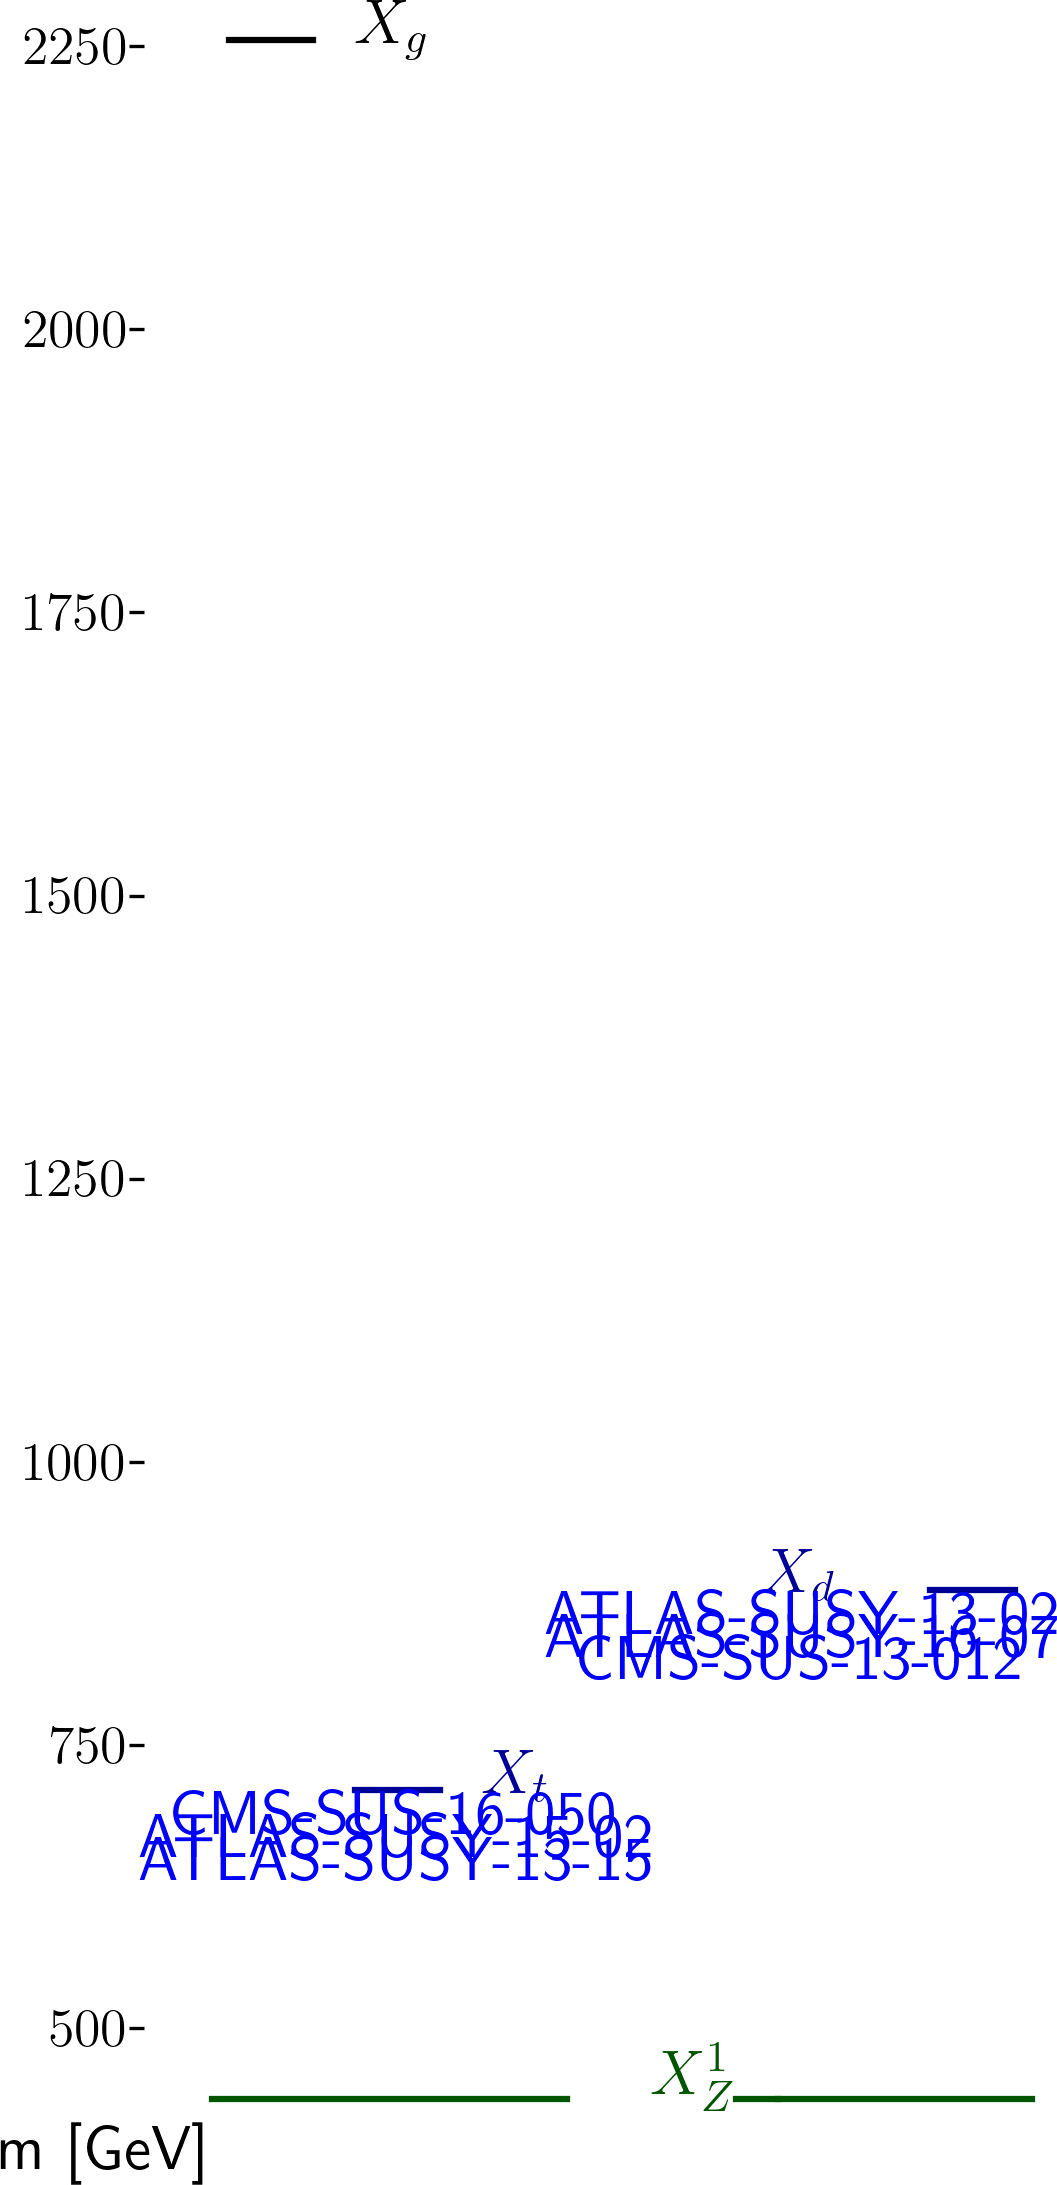
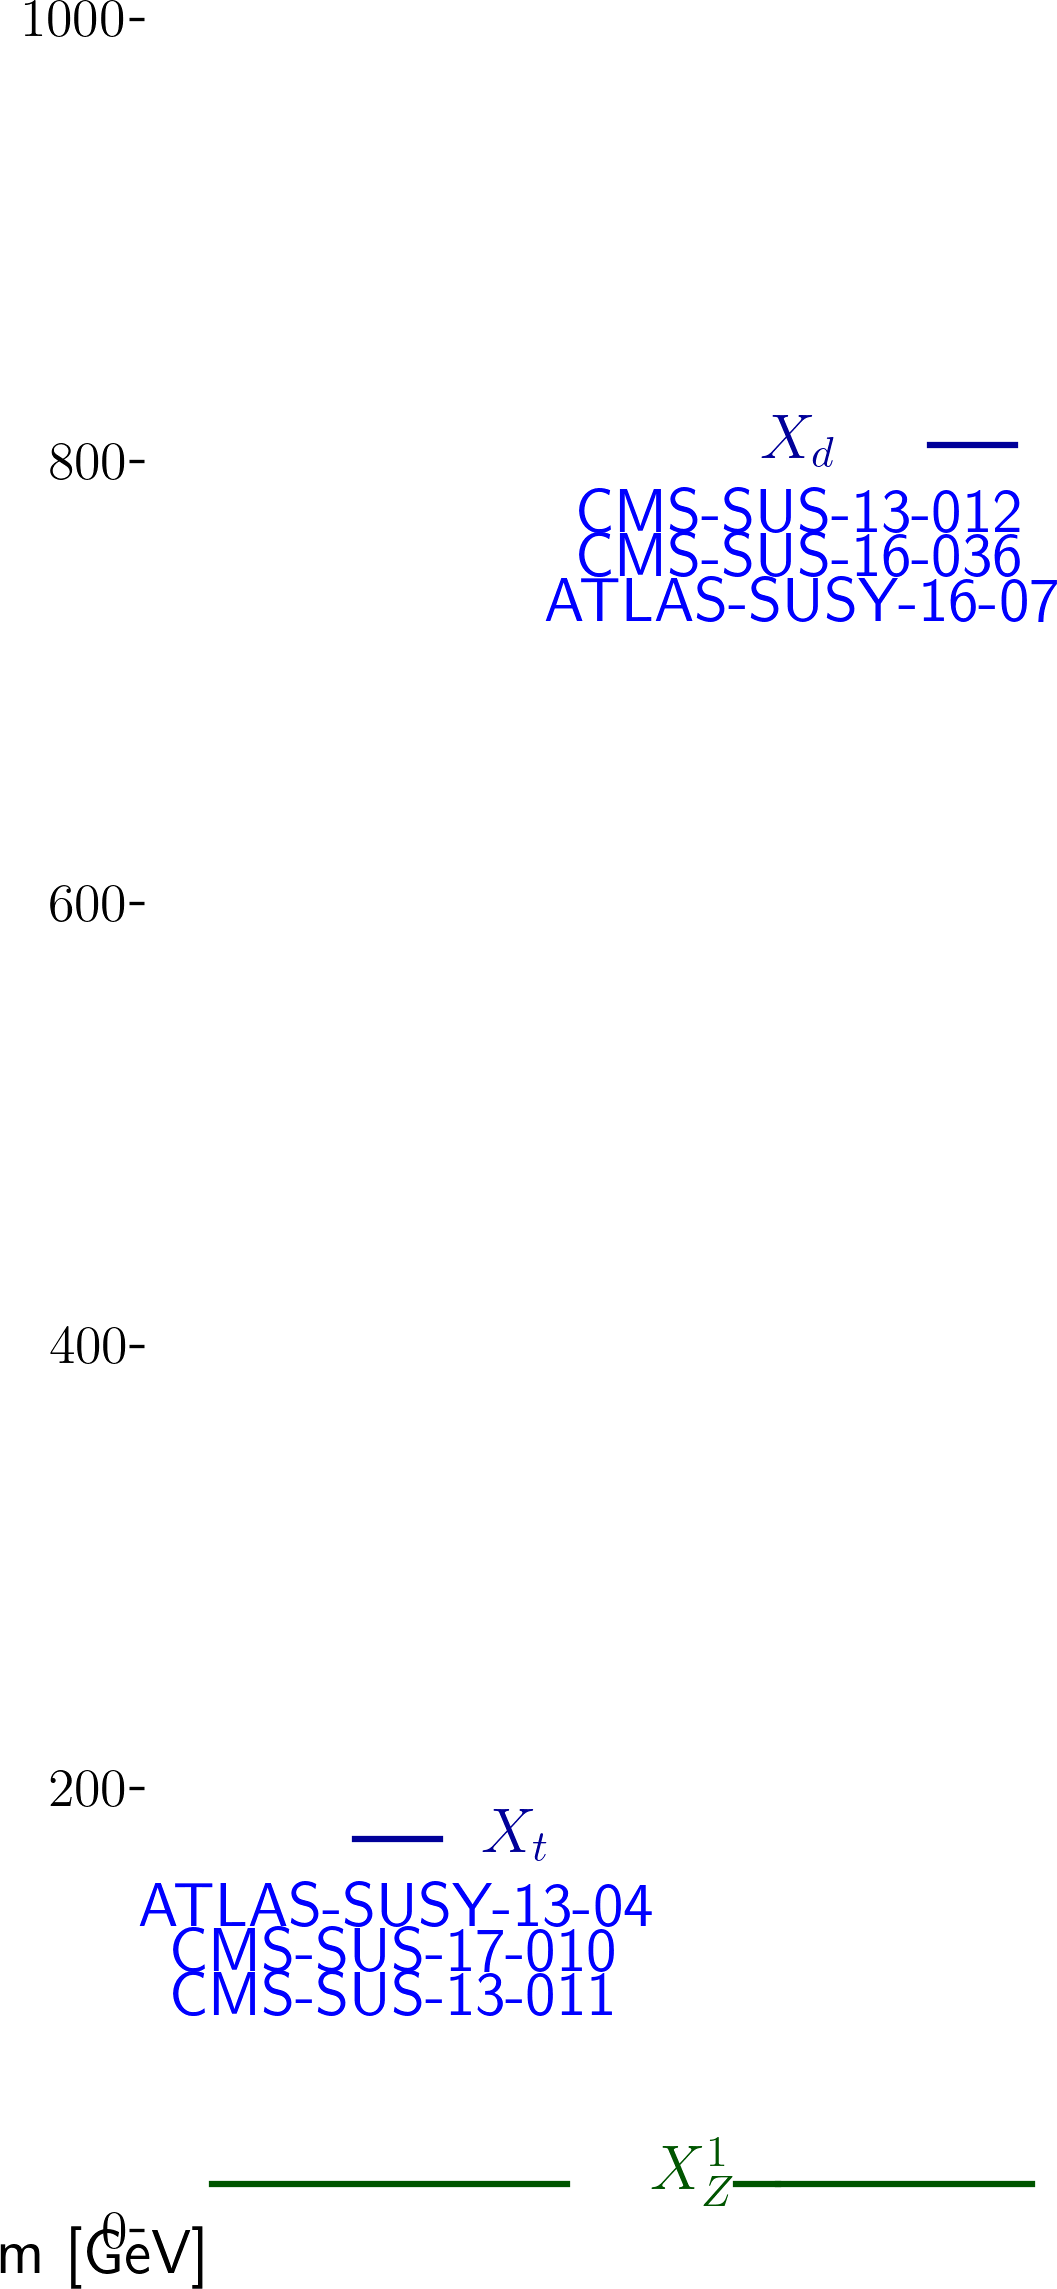
automated update by plotHiscore.py

diff --git a/protomodels/latest/index.html b/protomodels/latest/index.html
@@ -1,30 +1,28 @@
 <html>
 <body>
 <center>
-<table><td><h1>Current best protomodel: K=6.20</h1><td><img height=60px src=https://smodels.github.io/pics/banner.png></table>
+<table><td><h1>Current best protomodel: K=6.92</h1><td><img height=60px src=https://smodels.github.io/pics/banner.png></table>
 </center>
-<b><a href=./hiscore.slha>ProtoModel</a> <a href=./pmodel.py>(dict)</a> produced with <a href=https://smodels.github.io/docs/Validation124>database v1.2.4</a>, combination strategy <a href=./matrix_aggressive.png>aggressive</a> in walker 29 step 30.</b> K plots for: <a href=./M1000022.png?7711667>X<sub>Z</sub><sup>1</sup></a>, <a href=./M1000004.png?7711667>X<sub>c</sub></a>, <a href=./M1000006.png?7711667>X<sub>t</sub></a>. HPD plots for: <a href=./llhd1000004.png?7711667>X<sub>c</sub></a>, <a href=./llhd1000006.png?7711667>X<sub>t</sub></a>. SSM plots for: <a href=./ssm_1000021_1000021.png?7711667>(X<sub>g</sub>,X<sub>g</sub>)</a>, <a href=./ssm_-1000006_1000006.png?7711667>(x&#772;<sub>t</sub>,X<sub>t</sub>)</a><br>
+<b><a href=./hiscore.slha>ProtoModel</a> <a href=./pmodel.py>(dict)</a> produced with <a href=https://smodels.github.io/docs/Validation124>database v1.2.4</a>, combination strategy <a href=./matrix_aggressive.png>aggressive</a> in walker 21 step 811.</b> K plots for: <a href=./M1000022.png?7784293>X<sub>Z</sub><sup>1</sup></a>, <a href=./M1000006.png?7784293>X<sub>t</sub></a>. HPD plots for: <a href=./llhd1000006.png?7784293>X<sub>t</sub></a>. SSM plots for: <a href=./ssm_-1000006_1000006.png?7784293>(x&#772;<sub>t</sub>,X<sub>t</sub>)</a><br>
 <table width=80%>
 <tr><td>
-<br><b>33 predictions available. Highest r values are:</b><br><ul>
-<li><a href=http://cms-results.web.cern.ch/cms-results/public-results/publications/SUS-19-006/index.html>CMS-SUS-19-006</a>:T2tt r=1.30, r<sub>exp</sub>=0.83<br>
-<li><a href=http://cms-results.web.cern.ch/cms-results/public-results/publications/SUS-16-033/index.html>CMS-SUS-16-033</a>:T2 r=1.17, r<sub>exp</sub>=0.79<br>
-<li><a href=http://cms-results.web.cern.ch/cms-results/public-results/publications/SUS-19-006/index.html>CMS-SUS-19-006</a>:T2 r=1.16, r<sub>exp</sub>=1.03<br>
-<li><a href=http://cms-results.web.cern.ch/cms-results/public-results/publications/SUS-16-036/index.html>CMS-SUS-16-036</a>:T2 r=0.90, r<sub>exp</sub>=0.69<br>
-<li><a href=http://cms-results.web.cern.ch/cms-results/public-results/publications/SUS-16-049/index.html>CMS-SUS-16-049</a>:T2tt r=0.77, r<sub>exp</sub>=0.68<br>
+<br><b>19 predictions available. Highest r values are:</b><br><ul>
+<li><a href=http://cms-results.web.cern.ch/cms-results/public-results/publications/SUS-19-006/index.html>CMS-SUS-19-006</a>:T2 r=1.30, r<sub>exp</sub>=N/A<br>
+<li><a href=http://cms-results.web.cern.ch/cms-results/public-results/publications/SUS-16-033/index.html>CMS-SUS-16-033</a>:T2 r=1.11, r<sub>exp</sub>=N/A<br>
+<li><a href=http://cms-results.web.cern.ch/cms-results/public-results/publications/SUS-16-036/index.html>CMS-SUS-16-036</a>:T2 r=0.80, r<sub>exp</sub>=N/A<br>
+<li><a href=https://twiki.cern.ch/twiki/bin/view/CMSPublic/PhysicsResultsSUS13004>CMS-SUS-13-004</a>:T2tt r=0.69, r<sub>exp</sub>=N/A<br>
+<li><a href=https://twiki.cern.ch/twiki/bin/view/CMSPublic/PhysicsResultsSUS13019>CMS-SUS-13-019</a>:T2 r=0.65, r<sub>exp</sub>=N/A<br>
 </ul>
 <td><br><b>K values without analyses: (contribution)</b><br>
 <ul>
-<li> <a href=https://atlas.web.cern.ch/Atlas/GROUPS/PHYSICS/PAPERS/SUSY-2016-07/>ATLAS-SUSY-2016-07</a>: 5.09 (9%)
-<li> <a href=>CMS-PAS-SUS-13-015</a>: 4.93 (11%)
-<li> <a href=https://atlas.web.cern.ch/Atlas/GROUPS/PHYSICS/PAPERS/SUSY-2013-15/>ATLAS-SUSY-2013-15</a>: 4.66 (13%)
-<li> <a href=http://cms-results.web.cern.ch/cms-results/public-results/publications/SUS-16-050/index.html>CMS-SUS-16-050</a>: 3.01 (27%)
-<li> <a href=http://atlas.web.cern.ch/Atlas/GROUPS/PHYSICS/PAPERS/SUSY-2015-02/>ATLAS-SUSY-2015-02</a>: 1.38 (40%)
-<td><img width=600px src=./texdoc.png?1600711667>
-<br><font size=-1>Last updated: Mon Sep 21 20:07:47 2020</font>
+<li> <a href=https://twiki.cern.ch/twiki/bin/view/CMSPublic/PhysicsResultsSUS13012>CMS-SUS-13-012</a>: 5.98 (9%)
+<li> <a href=https://atlas.web.cern.ch/Atlas/GROUPS/PHYSICS/PAPERS/SUSY-2013-04/>ATLAS-SUSY-2013-04</a>: 5.22 (17%)
+<li> <a href=http://cms-results.web.cern.ch/cms-results/public-results/publications/SUS-17-010>CMS-SUS-17-010</a>: -0.42 (74%)
+<td><img width=600px src=./texdoc.png?1600784293>
+<br><font size=-1>Last updated: Tue Sep 22 16:18:13 2020</font>
 </table><table style="width:80%">
-<td width=45%><img height=580px src=./ruler.png?1600711667><td width=55%><img height=380px src=./decays.png?1600711667>
-<font size=-3><iframe type="text/html" height="220px" width="100%s" frameborder="0" src="./rawnumbers.html?1600711667"></iframe></font>
+<td width=45%><img height=580px src=./ruler.png?1600784293><td width=55%><img height=380px src=./decays.png?1600784293>
+<font size=-3><iframe type="text/html" height="220px" width="100%s" frameborder="0" src="./rawnumbers.html?1600784293"></iframe></font>
 </table>
 </body>
 </html>

diff --git a/protomodels/latest/rawnumbers.html b/protomodels/latest/rawnumbers.html
@@ -1,10 +1,10 @@
 <table>
 <tr><th>Analysis Name</th><th>Type</th><th>Dataset</th><th>Topos</th><th>Observed</th><th>Expected</th><th>Approx &sigma;</th><th>Particles</th>
 </tr>
-<tr><td><a href=https://atlas.web.cern.ch/Atlas/GROUPS/PHYSICS/PAPERS/SUSY-2013-02/>ATLAS-SUSY-2013-02</a></td><td>em</td> <td>SR6jtp</td><td>T2</td><td>6</td><td>4.9 +/- 1.6</td><td style="text-align:right">0.4 &sigma;</td><td style="text-align:right">X<sub>d</sub></td></tr>
-<tr><td><a href=https://atlas.web.cern.ch/Atlas/GROUPS/PHYSICS/PAPERS/SUSY-2013-15/>ATLAS-SUSY-2013-15</a></td><td>em</td> <td>tNboost</td><td>T2tt</td><td>5</td><td>3.3 +/- 0.7</td><td style="text-align:right">0.9 &sigma;</td><td style="text-align:right">X<sub>t</sub></td></tr>
-<tr><td><a href=http://atlas.web.cern.ch/Atlas/GROUPS/PHYSICS/PAPERS/SUSY-2015-02/>ATLAS-SUSY-2015-02</a></td><td>em</td> <td>SR1</td><td>T2tt</td><td>12</td><td>5.5 +/- 0.72</td><td style="text-align:right">2.6 &sigma;</td><td style="text-align:right">X<sub>t</sub></td></tr>
+<tr><td><a href=https://atlas.web.cern.ch/Atlas/GROUPS/PHYSICS/PAPERS/SUSY-2013-04/>ATLAS-SUSY-2013-04</a></td><td>em</td> <td>GtGrid_SR_10ij5 ...</td><td>T2tt</td><td>3</td><td>1.37 +/- 0.35</td><td style="text-align:right">1.3 &sigma;</td><td style="text-align:right">X<sub>t</sub></td></tr>
 <tr><td><a href=https://atlas.web.cern.ch/Atlas/GROUPS/PHYSICS/PAPERS/SUSY-2016-07/>ATLAS-SUSY-2016-07</a></td><td>em</td> <td>2j_Meff_1200</td><td>T2</td><td>611</td><td>526 +/- 31</td><td style="text-align:right">2.2 &sigma;</td><td style="text-align:right">X<sub>d</sub></td></tr>
-<tr><td><a href=https://twiki.cern.ch/twiki/bin/view/CMSPublic/PhysicsResultsSUS13012>CMS-SUS-13-012</a></td><td>ul</td> <td>-</td><td>T2</td><td> 37.2 fb </td><td> 22.5 fb</td><td style="text-align:right">1.3 &sigma;</td><td style="text-align:right">X<sub>d</sub></td></tr>
-<tr><td><a href=http://cms-results.web.cern.ch/cms-results/public-results/publications/SUS-16-050/index.html>CMS-SUS-16-050</a></td><td>ul</td> <td>-</td><td>T2tt</td><td> 191.0 fb </td><td> 85.5 fb</td><td style="text-align:right">2.4 &sigma;</td><td style="text-align:right">X<sub>t</sub></td></tr>
+<tr><td><a href=https://twiki.cern.ch/twiki/bin/view/CMSPublic/PhysicsResultsSUS13011>CMS-SUS-13-011</a></td><td>em</td> <td>LM150</td><td>T2tt</td><td>227</td><td>251 +/- 50</td><td style="text-align:right">-0.5 &sigma;</td><td style="text-align:right">X<sub>t</sub></td></tr>
+<tr><td><a href=https://twiki.cern.ch/twiki/bin/view/CMSPublic/PhysicsResultsSUS13012>CMS-SUS-13-012</a></td><td>ul</td> <td>-</td><td>T2</td><td> 18.7 fb </td><td> 11.3 fb</td><td style="text-align:right">1.3 &sigma;</td><td style="text-align:right">X<sub>d</sub></td></tr>
+<tr><td><a href=http://cms-results.web.cern.ch/cms-results/public-results/publications/SUS-16-036/index.html>CMS-SUS-16-036</a></td><td>ul</td> <td>-</td><td>T2</td><td> 18.0 fb </td><td> 18.5 fb</td><td style="text-align:right">-0.1 &sigma;</td><td style="text-align:right">X<sub>d</sub></td></tr>
+<tr><td><a href=http://cms-results.web.cern.ch/cms-results/public-results/publications/SUS-17-010>CMS-SUS-17-010</a></td><td>ul</td> <td>-</td><td>T2tt</td><td> 73978.2 fb </td><td> 33431.5 fb</td><td style="text-align:right">2.4 &sigma;</td><td style="text-align:right">X<sub>t</sub></td></tr>
 </table>

diff --git a/protomodels/latest/pmodel.py b/protomodels/latest/pmodel.py
@@ -1,1 +1,1 @@
-{'masses': {1000022: 426.959, 1000006: 700.074, 1000001: 876.97, 1000021: 2245.077}, 'ssmultipliers': {(1000022, 1000022): 8.697, (1000006, 1000006): 0.707, (-1000006, 1000006): 0.707, (-1000006, -1000006): 0.707, (1000006, 1000022): 0.707, (-1000006, 1000022): 0.707, (1000001, 1000001): 1.004, (-1000001, 1000001): 1.004, (-1000001, -1000001): 1.004, (1000001, 1000022): 1.004, (-1000001, 1000022): 1.004, (1000001, 1000006): 1.004, (-1000001, 1000006): 1.004, (-1000006, 1000001): 1.004, (-1000006, -1000001): 1.004, (1000021, 1000021): 1.008, (1000021, 1000022): 1.008, (1000006, 1000021): 1.008, (-1000006, 1000021): 1.008, (1000001, 1000021): 1.008, (-1000001, 1000021): 1.008}, 'decays': {1000022: {}, 1000006: {1000022: 1.0}, 1000001: {1000022: 1.0}, 1000021: {(1000006, 6): 1.0}}, 'timestamp': 'Mon Sep 21 20:07:37 2020', 'Z': 3.372, 'K': 6.196, 'step': 30, 'codever': '1.0', 'dbver': '1.2.4'}
+{'masses': {1000022: 11.0, 1000006: 166.871, 1000001: 797.267}, 'ssmultipliers': {(1000022, 1000022): 0.0, (1000006, 1000006): 0.143, (-1000006, 1000006): 0.298, (-1000006, -1000006): 0.254, (1000006, 1000022): 0.171, (-1000006, 1000022): 0.171, (1000001, 1000001): 0.856, (-1000001, 1000001): 0.856, (-1000001, -1000001): 0.856, (1000001, 1000022): 0.856, (-1000001, 1000022): 0.856, (1000001, 1000006): 0.856, (-1000001, 1000006): 0.856, (-1000006, 1000001): 0.856, (-1000006, -1000001): 0.856}, 'decays': {1000022: {}, 1000006: {1000022: 1.0}, 1000001: {1000022: 1.0}}, 'timestamp': 'Tue Sep 22 16:18:07 2020', 'Z': 3.228, 'K': 6.922, 'step': 811, 'codever': '1.0', 'dbver': '1.2.4'}
